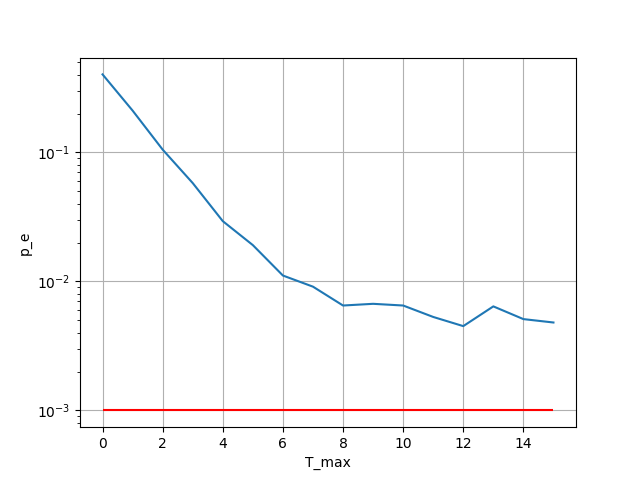
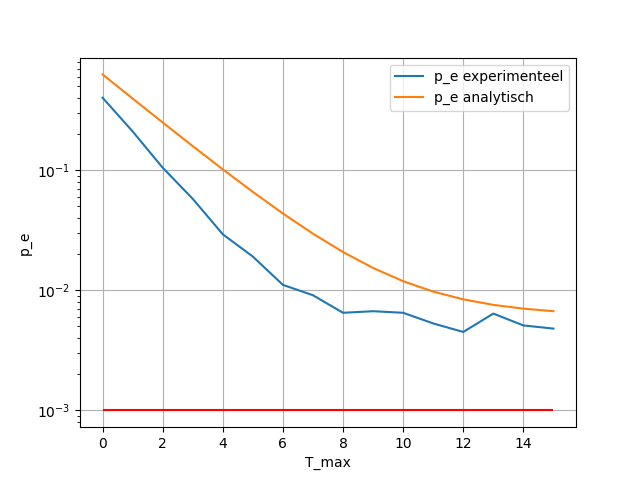
lm

diff --git a/Python/codewoorden.py b/Python/codewoorden.py
@@ -79,43 +79,37 @@ def pm_crc8():
     for woord in c:
         sum += (0.05)**(gewicht(woord)) * (0.95)**(10-gewicht(woord))
     return sum
-# def pf(error, all_error, woorden, p):
-#     sum = 0
-#     for e in all_error:
-#         if e.tolist() not in error.tolist():
-#             sumi = 0
-#             for c in woorden:
-#                 ec = np.mod(np.add(e,c), 2)
-#                 sumi += np.power(p, gewicht(ec)) * np.power(1-p, 14-gewicht(ec))
-#             sum += sumi
-#     return sum
+def pf(error, woorden, p):
+    sum = 0
+    for e in error:
+        for c in woorden:
+            sum += (0.05)**(gewicht(np.mod(e+c,2))) * (0.95)**(10-gewicht(np.mod(e+c,2)))
+    return sum
 
-# err = np.array([
-# [0,0,0,0,0,0,0,0,0,0,0,0,0,0],
-# [1,0,0,0,0,0,0,0,0,0,0,0,0,0],
-# [0,1,0,0,0,0,0,0,0,0,0,0,0,0],
-# [0,0,1,0,0,0,0,0,0,0,0,0,0,0],
-# [0,0,0,1,0,0,0,0,0,0,0,0,0,0],
-# [0,0,0,0,1,0,0,0,0,0,0,0,0,0],
-# [0,0,0,0,0,1,0,0,0,0,0,0,0,0],
-# [0,0,0,0,0,0,1,0,0,0,0,0,0,0],
-# [0,0,0,0,0,0,0,1,0,0,0,0,0,0],
-# [0,0,0,0,0,0,0,0,1,0,0,0,0,0],
-# [0,0,0,0,0,0,0,0,0,1,0,0,0,0],
-# [0,0,0,0,0,0,0,0,0,0,1,0,0,0],
-# [0,0,0,0,0,0,0,0,0,0,0,1,0,0],
-# [0,0,0,0,0,0,0,0,0,0,0,0,1,0],
-# [0,0,0,0,0,0,0,0,0,0,0,0,0,1],
-# [1,0,0,0,0,0,1,0,0,0,0,0,0,0]
-# ])
+err = np.array([
+[0,0,0,0,0,0,0,0,0,0,0,0,0,0],
+[1,0,0,0,0,0,0,0,0,0,0,0,0,0],
+[0,1,0,0,0,0,0,0,0,0,0,0,0,0],
+[0,0,1,0,0,0,0,0,0,0,0,0,0,0],
+[0,0,0,1,0,0,0,0,0,0,0,0,0,0],
+[0,0,0,0,1,0,0,0,0,0,0,0,0,0],
+[0,0,0,0,0,1,0,0,0,0,0,0,0,0],
+[0,0,0,0,0,0,1,0,0,0,0,0,0,0],
+[0,0,0,0,0,0,0,1,0,0,0,0,0,0],
+[0,0,0,0,0,0,0,0,1,0,0,0,0,0],
+[0,0,0,0,0,0,0,0,0,1,0,0,0,0],
+[0,0,0,0,0,0,0,0,0,0,1,0,0,0],
+[0,0,0,0,0,0,0,0,0,0,0,1,0,0],
+[0,0,0,0,0,0,0,0,0,0,0,0,1,0],
+[0,0,0,0,0,0,0,0,0,0,0,0,0,1],
+[1,0,0,0,0,0,1,0,0,0,0,0,0,0]
+])
 
 # e = [np.array(bits) for bits in itertools.product([0, 1], repeat=14)]
 
-# cw = codewoorden()
+cw = codewoorden()
 # print(lengte3(cw))
 # print(pm(cw[1:], 0.05))
 # #print(pf(err[1:], e[1:], cw[1:], 0.05))
-
-print(pm_crc5())
-print(pm_crc8())
-print(crc8_codewoorden())
+print(len(cw))
+print(pf(err[1:], cw, 0.05))

diff --git a/Python/kanaal_simulaties.py b/Python/kanaal_simulaties.py
@@ -155,13 +155,20 @@ def plot_protocol1():
      0.350071414568572, 0.3517782389981356, 0.35278595065230123, 0.35082795397137245,
      0.3507762678808203, 0.352803375622698, 0.34719570032844715, 0.34778737670937493]
     
+    pm = 0.0023
+    pf = 0.6261
+    p_ana = [pm * (1-pf**(T+1))/(1-pf) + pf**(T+1) for T in x]
+    print(p_ana) 
+    
     plt.plot(x, pe)
+    plt.plot(x, p_ana)
     plt.xlabel("T_max")
     plt.ylabel("p_e")
     plt.yscale("log")
     plt.hlines(0.001, 0, 15, color="r")
     plt.grid(True)
-    plt.savefig("kc_plots/p_e_protocol1.png")
+    plt.legend(["p_e experimenteel", "p_e analytisch"])
+    plt.savefig("p_e_protocol1.png")
     plt.close()
 
     plt.plot(x, deb)
@@ -169,7 +176,7 @@ def plot_protocol1():
     plt.xlabel("T_max")
     plt.ylabel("Gemiddeld informatiedebiet")
     plt.grid(True)
-    plt.savefig("kc_plots/deb_protocol1.png")
+    plt.savefig("deb_protocol1.png")
     plt.close()
     return
 
@@ -368,5 +375,4 @@ def plot_protocol2b():
     plt.savefig("kc_plots/deb_protocol2b.png")
     plt.close()
     return
-
-print(run_simulation2b())
+plot_protocol1()

diff --git a/Python/kwantisatie.py b/Python/kwantisatie.py
@@ -343,18 +343,6 @@ class Kwantisatie():
             plt.savefig("ent_lm.png")
             plt.close()
 
-            #Dist
-            x = np.linspace(-1, 1, 2000)
-            plt.plot(x, [f_u(i) for i in x])
-            plt.plot(q, np.zeros(M), marker = '|')
-            for line in r:
-                plt.axvline(x=line, color='g', linewidth=0.5, marker = 'x')
-            plt.xlabel("u")
-            plt.ylabel("f_u(u)")
-            plt.grid(True)
-            plt.savefig("dist_lm.png")
-            plt.close()
-               
         # GKD_min : minimale GKD van de Lloyd-Max kwantisator
         # SQR : SQR van de Lloyd-Max kwantisator
         # entropie : entropie van het gekwantiseerde signaal

diff --git a/Python/kwantisatie_plots.py b/Python/kwantisatie_plots.py
@@ -91,7 +91,7 @@ def run_kwantisatie():
     plt.axvline(r_opt[2**6], 0, 0.2, color = 'r', lw = 0.5)
     plt.xlabel("Monsterwaarde u")
     plt.ylabel("dichtheid")
-    obj.plot_distributie('fu_lm.png')
+    obj.plot_distributie()
     print('Done!')
 
 
